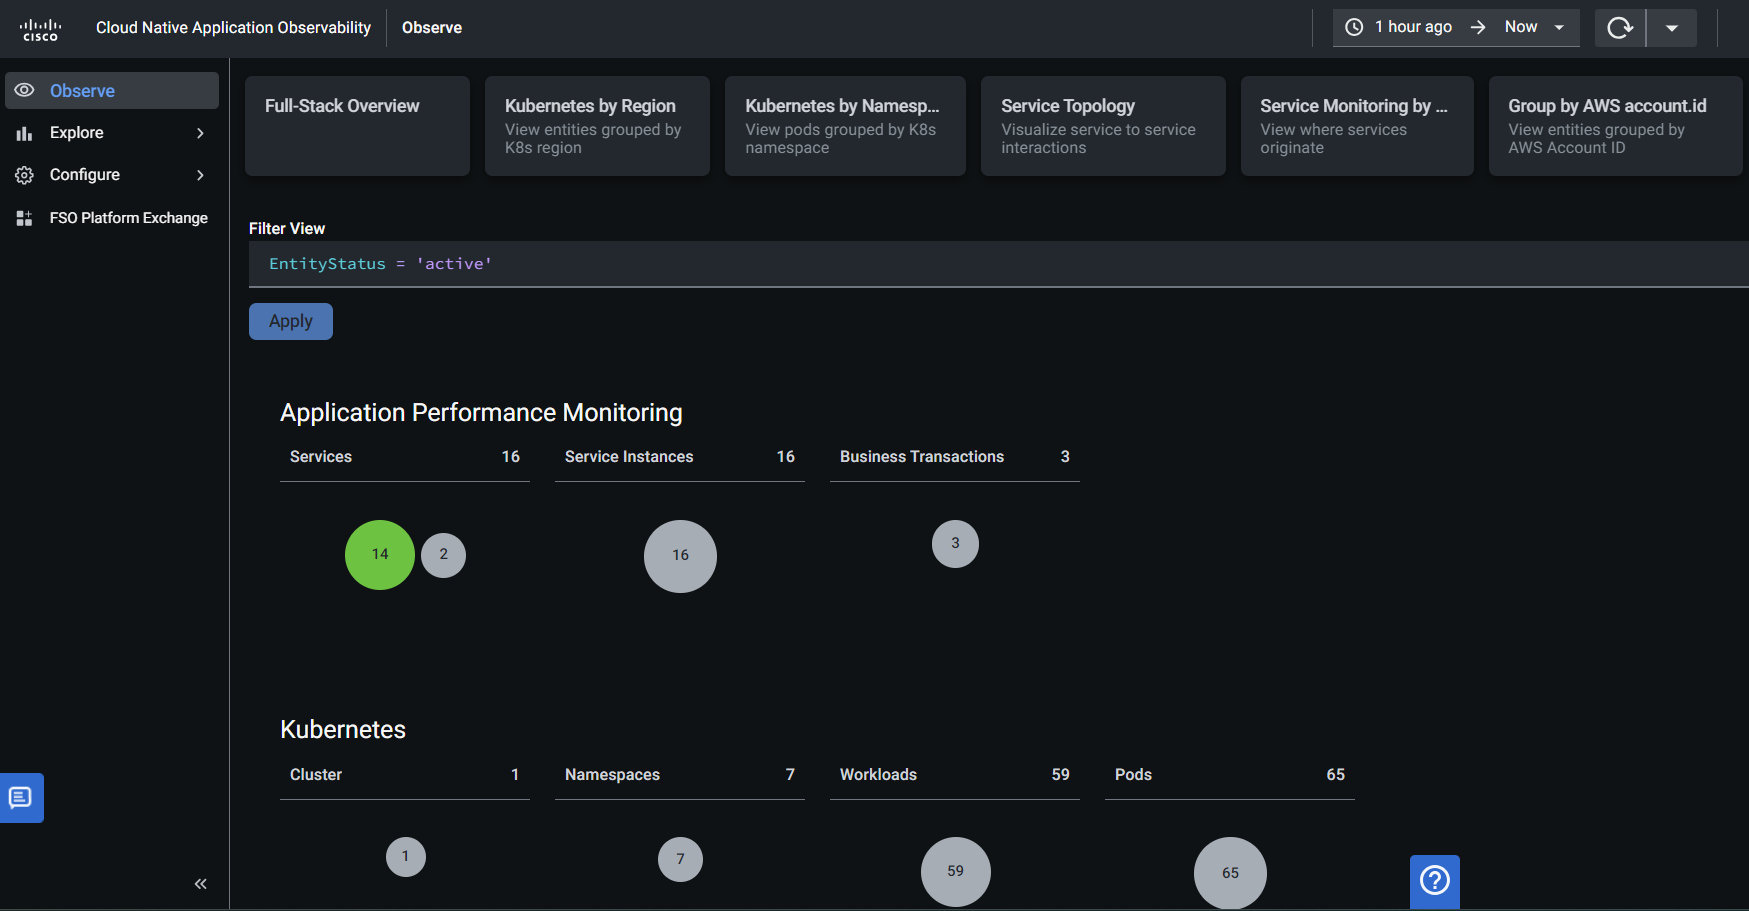
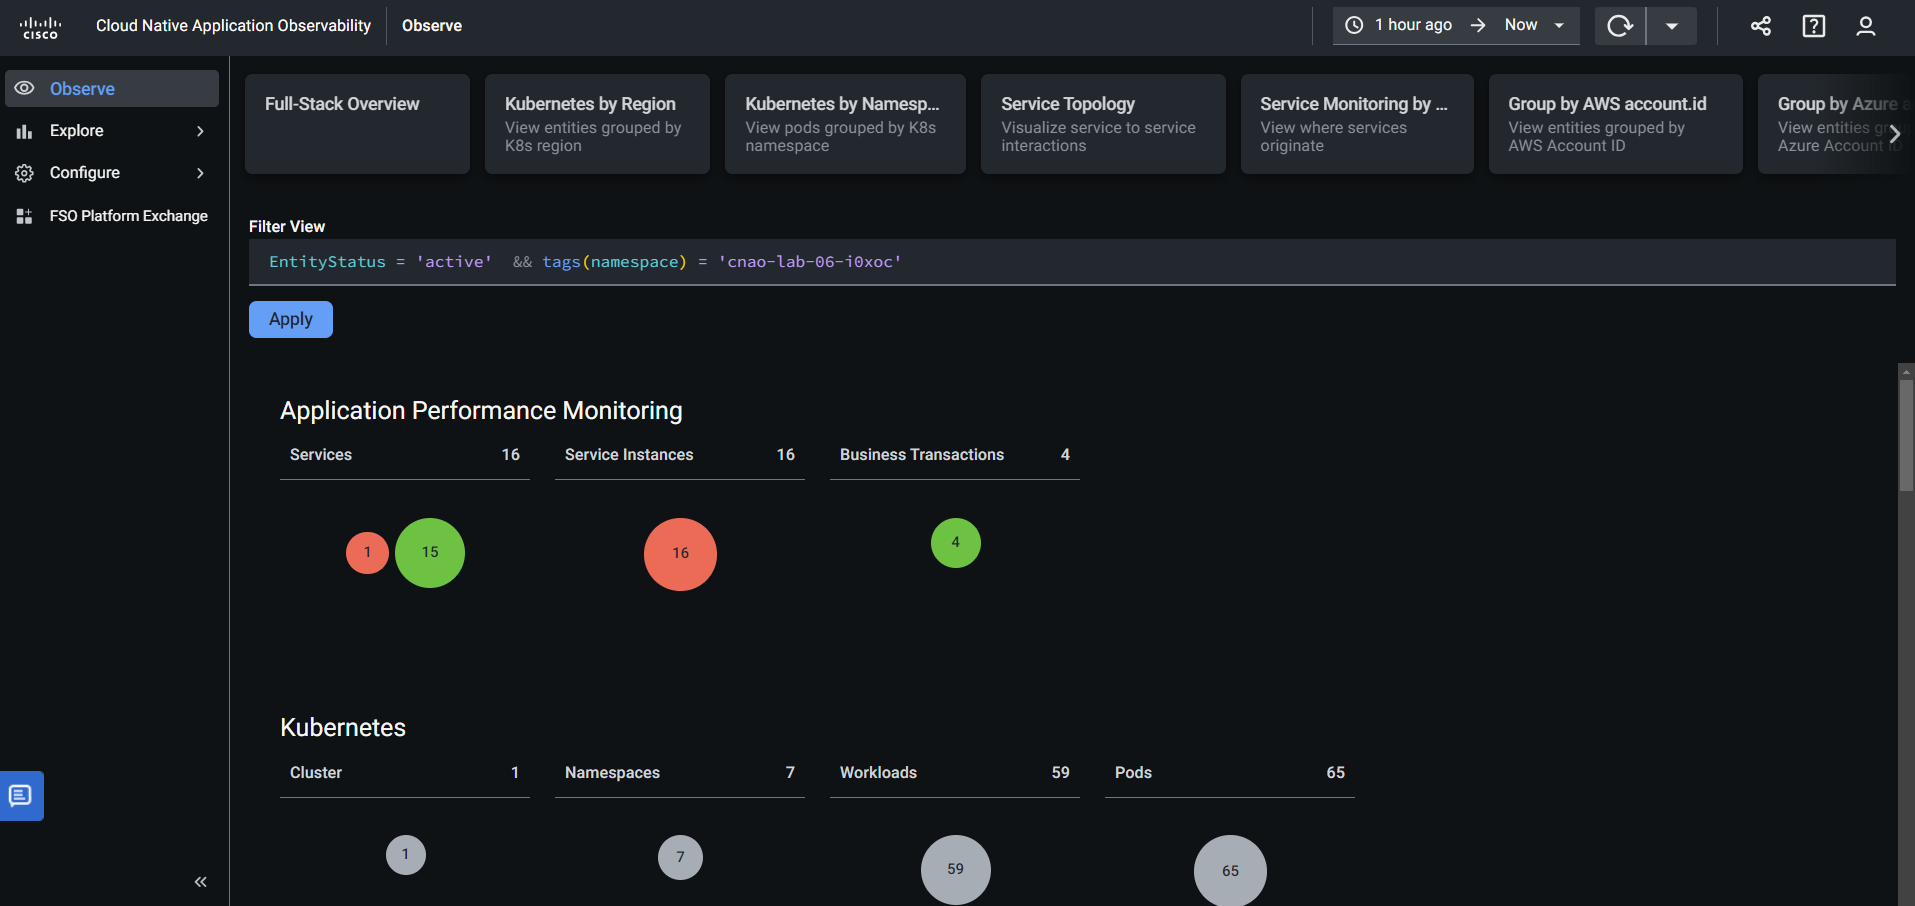
collect changes

diff --git a/layouts/partials/menu-footer.html b/layouts/partials/menu-footer.html
@@ -1,6 +1,6 @@
 <left>    
     <a href="https://www.appdynamics.com/legal/privacy-policy">Privacy</a> | <a
         href="https://www.appdynamics.com/legal/terms-of-use">Terms &amp; Conditions</a> <br>
-        &copy; 2021, AppDynamics. All Rights Reserved.
+        &copy; 2023, AppDynamics. All Rights Reserved.
 
 </left>

diff --git a/content/20_Hands_On_Deployment/24_app_deployment/_index.md b/content/20_Hands_On_Deployment/24_app_deployment/_index.md
@@ -4,7 +4,7 @@ chapter = false
 weight = 4
 +++
 
-In this segment, you'll roll out the OpenTelemetry demo application, which comes pre-instrumented with the OpenTelemetry SDK. This eliminates the need for you to manually instrument the app or deploy auto-instrumentation agents. The only modification you'll need to make in the application's deployment code is to direct the OpenTelemetry data to the collectors that were set up in earlier sections.
+In this segment, you'll roll out the OpenTelemetry demo application, which comes pre-instrumented with the OpenTelemetry SDK and agents. This eliminates the need for you to manually instrument the app or deploy auto-instrumentation agents. The only modification you'll need to make in the application's deployment code is to direct the OpenTelemetry data to the collectors that were set up in earlier sections.
 
 OpenTelemetry Demo consists of microservices written in different programming languages that communicate with each other via gRPC and HTTP, and a load generator that uses Locust to fake user traffic. The figure below showcases the application service diagram.
 
@@ -93,6 +93,14 @@ OpenTelemetry Demo Application URLs
 ![image](/images/24_app_deploy/demo_home_page.png)
 
 <span style="color: #143c76;"><i class='fas fa-circle fa-sm'></i></span>&nbsp; Repeat the process to check out other services like Grafana, Feature Flags UI, and so on.
+
+<span style="color: #143c76;"><i class='fas fa-circle fa-sm'></i></span>&nbsp; Navigate to your CNAO tenant via the **CNAO Tenant URL** and check to see if the OpenTelemetry collector is sending any data to the platform.
+
+Go to the **Observe** page and apply a filter like `EntityStatus = 'active'  && attributes(service.namespace) = 'cnao-lab-06-i0xoc'` to narrow down the display to services specific to your lab environment. Be sure to use your own namespace name, which is stored in the **cnao_lab_id** environment variable.
+
+![image](/images/24_app_deploy/CNAO_deployed.png)
+
+You've successfully configured OpenTelemetry collectors to transmit data to the CNAO platform!
 
 <br>
 
